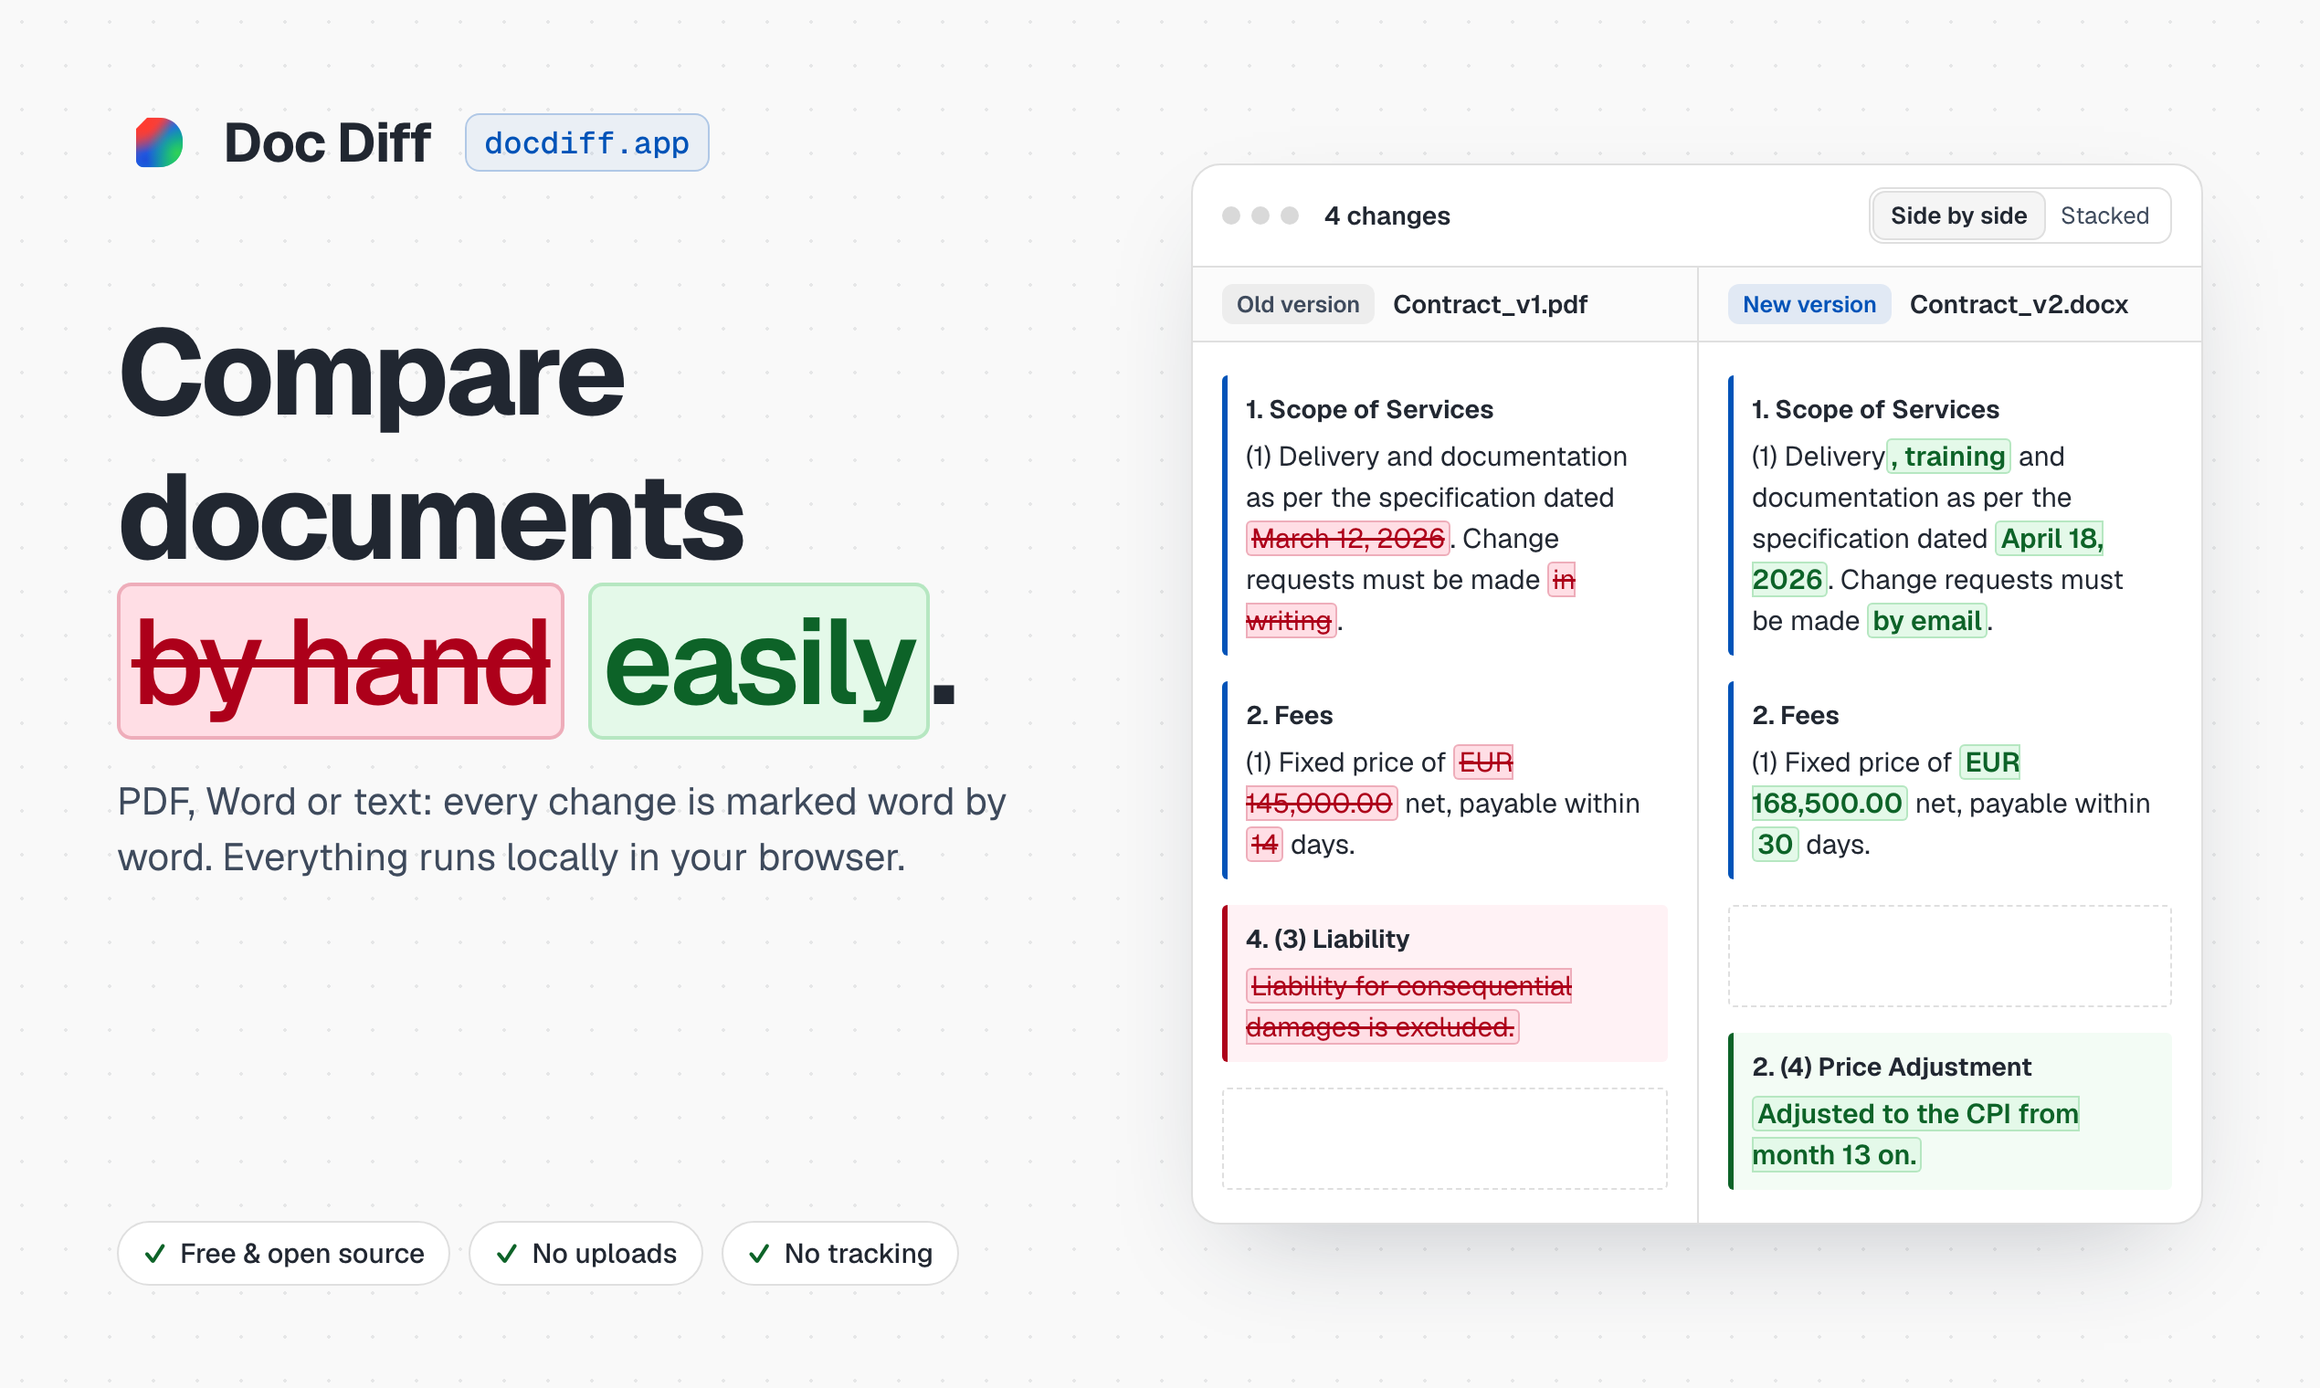
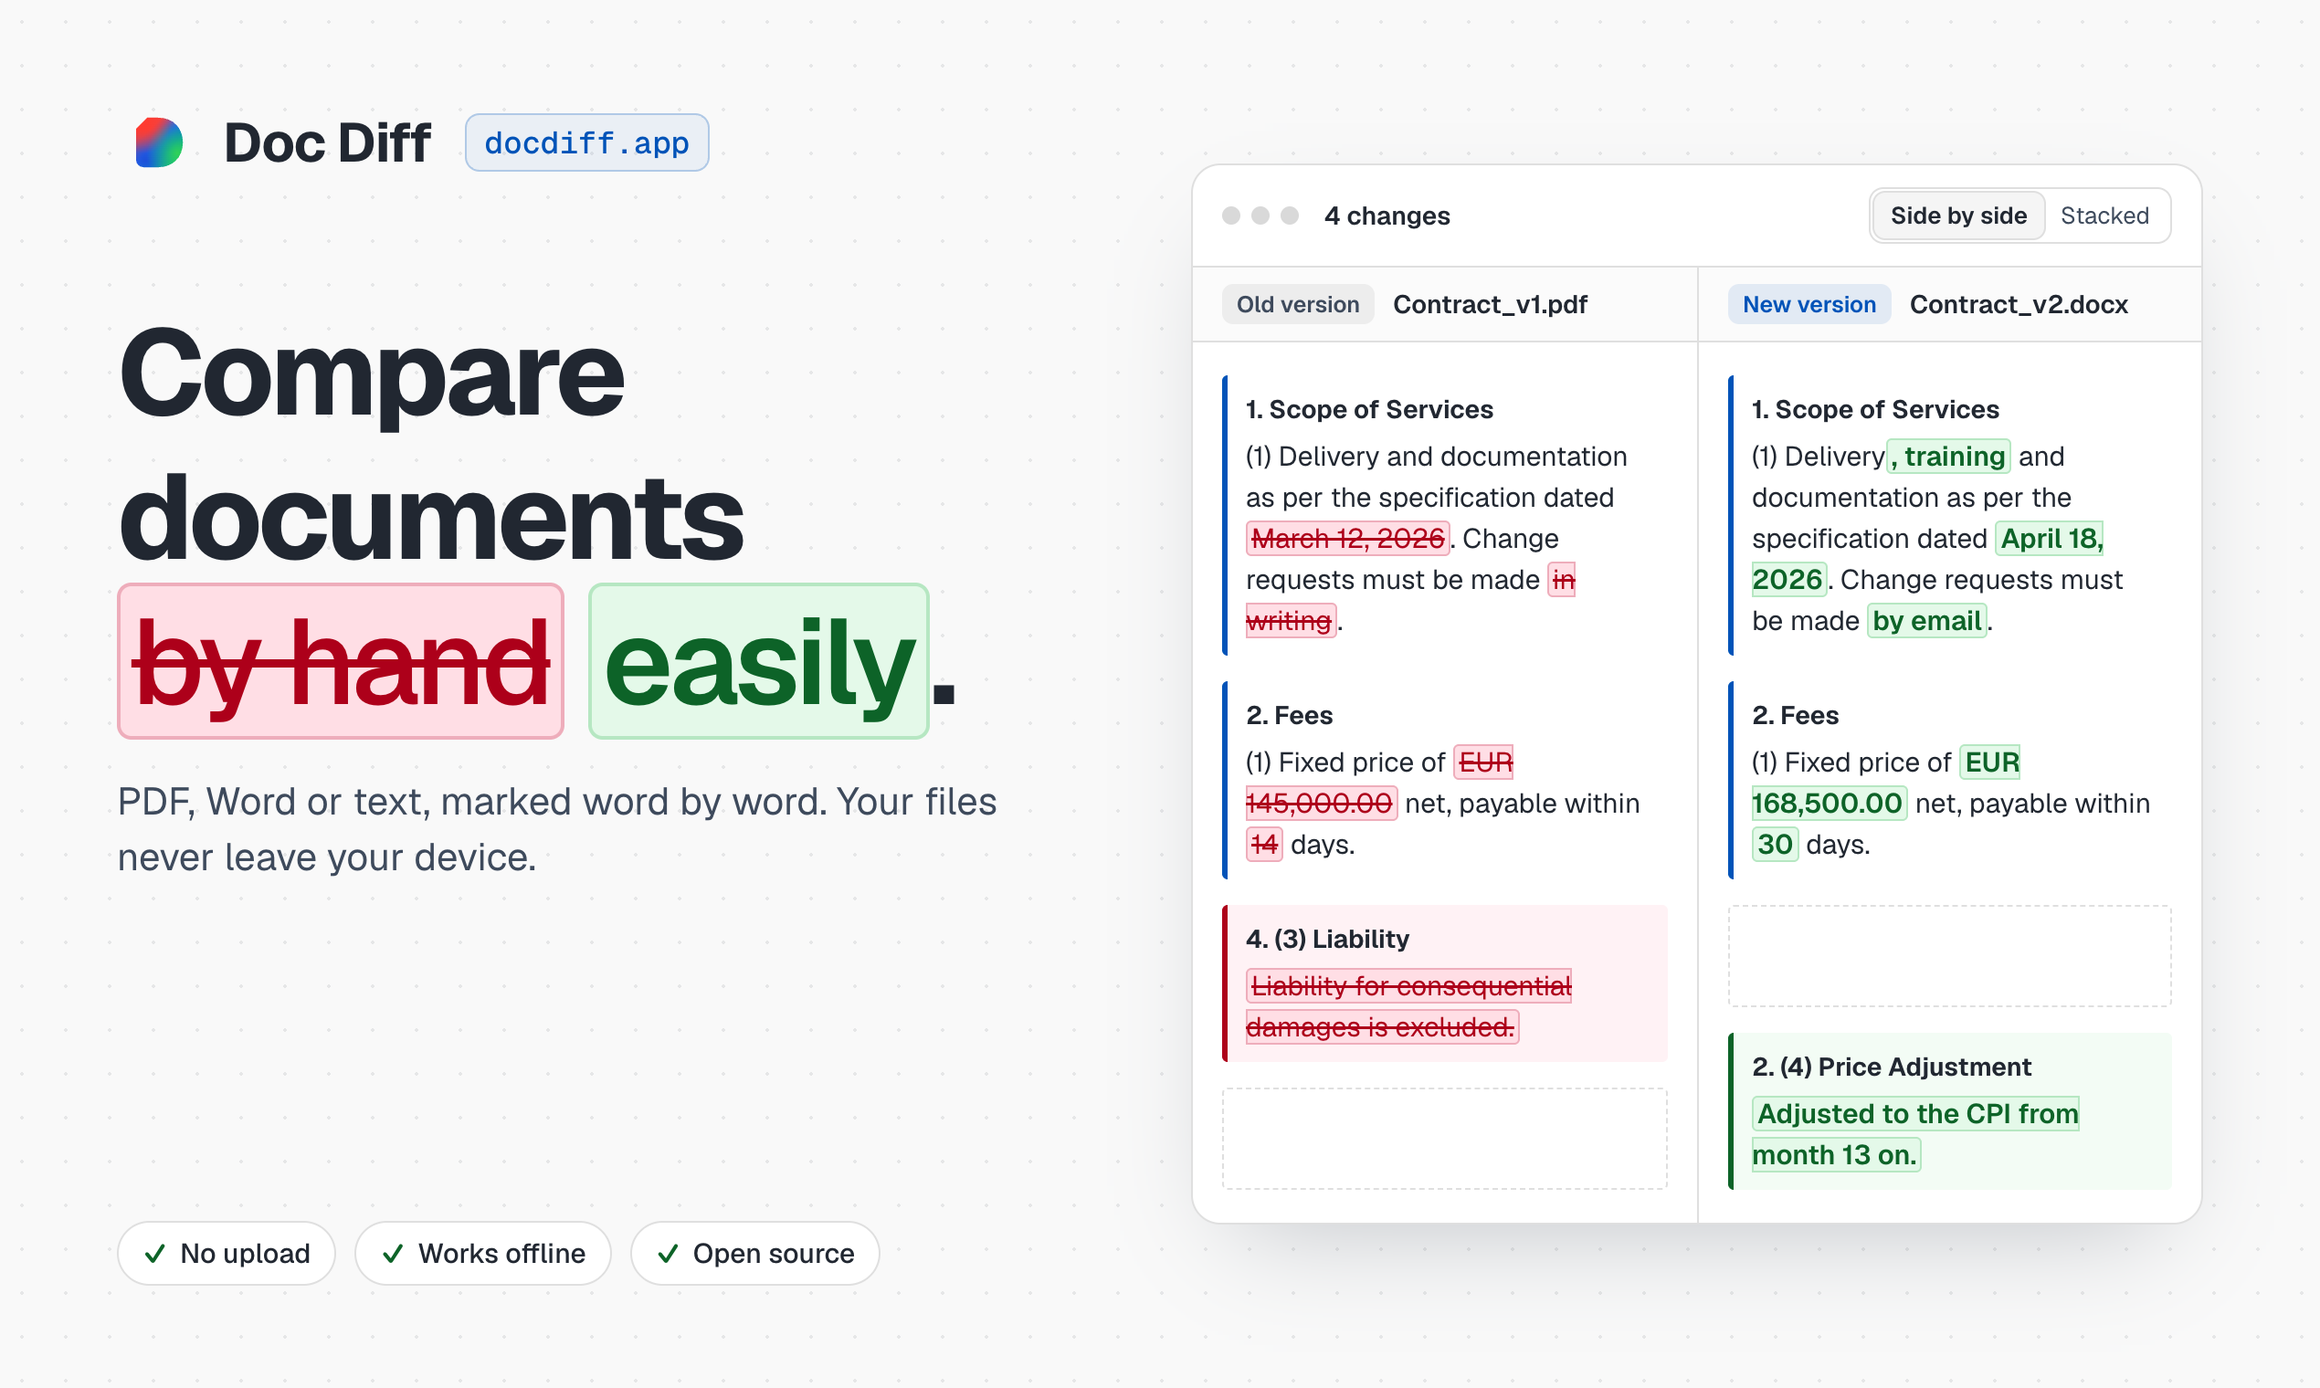
Put local-only processing front and centre
- Landing page: new "Your documents stay with you" section right below
  the first screen (no upload, works offline, nothing stored, verifiable);
  the trust line now leads with "No upload · Works offline".
- SEO: meta title and description say "locally, without uploading" and
  "works offline"; the JSON-LD featureList includes the four privacy points.
- Link preview images and the launch cover: "Your files never leave your
  device", chips "No upload · Works offline · Open source".
- README: a short privacy block near the top, linking to the full section.

Changed region(s): [[0.0622, 0.5566, 0.4354, 0.6493], [0.0622, 0.8967, 0.4043, 0.9276], [0.3421, 0.6184, 0.3732, 0.6493]]

diff --git a/src/js/01-i18n.js b/src/js/01-i18n.js
@@ -343,7 +343,7 @@ const I18N = {
     loadSample: 'Beispiel ansehen',
     heroTitle: 'Dokumente <del class="hero-del" aria-hidden="true" data-word="mühsam"></del> <ins class="hero-ins">einfach</ins> vergleichen.',
     heroSub: 'Jede Änderung Wort für Wort markiert. Ihre Dateien verlassen nie Ihr Gerät.',
-    trustLine: 'Kostenlos und Open Source (MIT) · Keine Werbung, kein Tracking, keine Cookies',
+    trustLine: 'Kein Upload · Auch offline nutzbar · Kostenlos und Open Source (MIT) · Kein Tracking',
     slotLeftTitle: 'Alte Fassung',
     slotRightTitle: 'Neue Fassung',
     slotHint: 'PDF, Word (.docx) oder Text',
@@ -359,6 +359,16 @@ const I18N = {
     how2Text: 'Entferntes ist rot durchgestrichen, Neues grün markiert. Jede Änderung können Sie annehmen oder ablehnen.',
     how3Title: 'Ergebnis sichern, wenn Sie es brauchen',
     how3Text: 'Als saubere Endfassung (Word im Originalformat oder PDF) oder als Vergleich mit Änderungsverfolgung.',
+    localTitle: 'Ihre Dokumente bleiben bei Ihnen',
+    localIntro: 'Online-Vergleichsdienste laden Ihre Dateien auf ihre Server. Doc Diff nicht: Gelesen und verglichen wird nur in Ihrem Browser. Ihre Dokumente erreichen keinen Server, weder unseren noch den eines Dritten. Das macht es geeignet für vertrauliche Verträge und erleichtert den Datenschutz (DSGVO).',
+    local1Title: 'Kein Upload',
+    local1Text: 'Ihr Browser sperrt jede Netzwerkverbindung aus der Seite heraus (Content-Security-Policy). Die Dateien liegen nur im Arbeitsspeicher dieses Tabs.',
+    local2Title: 'Funktioniert offline',
+    local2Text: 'Die ganze App ist eine einzige HTML-Datei. Herunterladen, Internet trennen, weiterarbeiten.',
+    local3Title: 'Nichts gespeichert, nichts geteilt',
+    local3Text: 'Kein Konto, keine Cookies, kein Tracking, kein Speicher im Browser. Schließen Sie den Tab, ist alles weg.',
+    local4Title: 'Selbst nachprüfbar',
+    local4Text: 'Der Quellcode ist offen (MIT). Im Reiter „Netzwerk“ der Entwicklerwerkzeuge sehen Sie: Beim Vergleichen geht keine Anfrage hinaus.',
     scopeTitle: 'Was es kann – und was nicht',
     scopeCanTitle: 'Kann',
     scopeCan1: 'PDFs mit Textebene, Word-Dateien (.docx) und reinen Text vergleichen – auch gemischt, etwa PDF mit Word',
@@ -392,9 +402,9 @@ const I18N = {
     faqWordA: `
               <p>Ja. Der Export „Word mit Änderungsverfolgung“ erzeugt eine .docx-Datei, in der jeder noch offene Unterschied als nachverfolgte Änderung steht. In Word oder LibreOffice können Sie die Änderungen einzeln annehmen oder ablehnen. Ist die neue Fassung eine Word-Datei, behält der Export deren Formatierung: Formatvorlagen, Nummerierung, Tabellen und Bilder bleiben erhalten. Aus PDF oder Text wird ein neu gesetztes Word-Dokument. Die Endfassung ohne Markierungen gibt es ebenso als Word-Datei.</p>
             `,
-    metaTitle: 'Doc Diff – PDF- und Word-Dokumente vergleichen, ohne Upload',
+    metaTitle: 'Doc Diff – PDF und Word vergleichen, lokal und ohne Upload',
     otherPageHint: 'Diese Seite gibt es auch auf Deutsch →',
-    metaDescription: 'Zwei Fassungen eines Vertrags oder Dokuments vergleichen: PDF, Word oder Text, Wort für Wort markiert. Kostenlos, Open Source, ohne Upload.',
+    metaDescription: 'Zwei Vertragsfassungen vergleichen, Wort für Wort markiert: PDF, Word oder Text. Läuft lokal im Browser, ohne Upload, auch offline. Kostenlos, Open Source.',
     ogImageAlt: 'Doc Diff: Zwei Vertragsfassungen nebeneinander, entfernter Text rot durchgestrichen, neuer Text grün markiert.',
     footerSource: 'Quellcode auf GitHub',
     githubMenu: 'Quellcode auf GitHub',
@@ -741,7 +751,7 @@ const I18N = {
     loadSample: 'View example',
     heroTitle: 'Compare documents <del class="hero-del" aria-hidden="true" data-word="by hand"></del> <ins class="hero-ins">easily</ins>.',
     heroSub: 'Every change marked word by word. Your files never leave your device.',
-    trustLine: 'Free and open source (MIT) · No ads, no tracking, no cookies',
+    trustLine: 'No upload · Works offline · Free and open source (MIT) · No tracking',
     slotLeftTitle: 'Old version',
     slotRightTitle: 'New version',
     slotHint: 'PDF, Word (.docx) or text',
@@ -757,6 +767,16 @@ const I18N = {
     how2Text: 'Removed text is struck through in red, added text is marked green. You can accept or reject each change.',
     how3Title: 'Save the result if you need it',
     how3Text: 'As a clean final version (Word in the original format, or PDF) or as a comparison with tracked changes.',
+    localTitle: 'Your documents stay with you',
+    localIntro: 'Online comparison services upload your files to their servers. Doc Diff doesn’t: everything is read and compared in your browser. Your documents reach no server, neither ours nor anyone else’s. That makes it suitable for confidential contracts and keeps data protection (GDPR) simple.',
+    local1Title: 'No upload',
+    local1Text: 'Your browser blocks every network connection from the page (Content Security Policy). The files only live in the memory of this tab.',
+    local2Title: 'Works offline',
+    local2Text: 'The whole app is a single HTML file. Download it, disconnect, keep working.',
+    local3Title: 'Nothing stored, nothing shared',
+    local3Text: 'No account, no cookies, no tracking, no browser storage. Close the tab and everything is gone.',
+    local4Title: 'Check it yourself',
+    local4Text: 'The source code is open (MIT). The Network tab of your browser’s developer tools shows no request while you compare.',
     scopeTitle: 'What it can do – and what it can’t',
     scopeCanTitle: 'Can',
     scopeCan1: 'Compare PDFs with a text layer, Word files (.docx) and plain text – also mixed, e.g. a PDF against a Word file',
@@ -790,9 +810,9 @@ const I18N = {
     faqWordA: `
               <p>Yes. The “Word with tracked changes” export creates a .docx file in which every difference that is still open is a tracked change. In Word or LibreOffice you can accept or reject each change. When the new version is a Word file, the export keeps its formatting: styles, numbering, tables and images stay as they were. From a PDF or text, a newly typeset Word document is created. The final version without marks is available as a Word file, too.</p>
             `,
-    metaTitle: 'Doc Diff – Compare PDF and Word documents without uploading',
+    metaTitle: 'Doc Diff – Compare PDF and Word files locally, without uploading',
     otherPageHint: 'This page is also available in English →',
-    metaDescription: 'Compare two versions of a contract or document: PDF, Word or text, marked word by word. Free, open source, runs in your browser without uploads.',
+    metaDescription: 'Compare two versions of a contract, marked word by word: PDF, Word or text. Runs locally in your browser, no upload, works offline. Free and open source.',
     ogImageAlt: 'Doc Diff: two versions of a contract side by side, removed text struck through in red, added text marked green.',
     footerSource: 'Source code on GitHub',
     githubMenu: 'Source code on GitHub',

diff --git a/src/template.html b/src/template.html
@@ -381,6 +381,17 @@ __APP_CSS__
         <button type="button" class="landing-more" id="landing-more" aria-label="Mehr erfahren" data-i18n-label="landingMore"><svg class="icon" viewBox="0 0 24 24" aria-hidden="true"><path d="m6 9 6 6 6-6"/></svg></button>
         </div>
 
+        <section class="landing-section" id="landing-local" aria-labelledby="local-title">
+          <h2 id="local-title" data-i18n="localTitle">Ihre Dokumente bleiben bei Ihnen</h2>
+          <p class="local-intro" data-i18n="localIntro"></p>
+          <div class="local-grid">
+            <div class="local-card"><svg class="icon" viewBox="0 0 24 24" aria-hidden="true"><path d="M12 22s8-4 8-10V5l-8-3-8 3v7c0 6 8 10 8 10z"/></svg><h3 data-i18n="local1Title"></h3><p data-i18n="local1Text"></p></div>
+            <div class="local-card"><svg class="icon" viewBox="0 0 24 24" aria-hidden="true"><path d="M12 20h.01"/><path d="M8.5 16.43a5 5 0 0 1 7 0"/><path d="M2 8.82a15 15 0 0 1 4.17-2.65"/><path d="M10.66 5c4.01-.36 8.14.9 11.34 3.76"/><path d="M16.85 11.25a10 10 0 0 1 2.22 1.68"/><path d="M5 13a10 10 0 0 1 5.24-2.76"/><path d="m2 2 20 20"/></svg><h3 data-i18n="local2Title"></h3><p data-i18n="local2Text"></p></div>
+            <div class="local-card"><svg class="icon" viewBox="0 0 24 24" aria-hidden="true"><rect x="4" y="11" width="16" height="10" rx="2"/><path d="M8 11V7a4 4 0 0 1 8 0v4"/></svg><h3 data-i18n="local3Title"></h3><p data-i18n="local3Text"></p></div>
+            <div class="local-card"><svg class="icon" viewBox="0 0 24 24" aria-hidden="true"><polyline points="16 18 22 12 16 6"/><polyline points="8 6 2 12 8 18"/></svg><h3 data-i18n="local4Title"></h3><p data-i18n="local4Text"></p></div>
+          </div>
+        </section>
+
         <section class="landing-section" id="landing-scope" aria-labelledby="scope-title">
           <h2 id="scope-title" data-i18n="scopeTitle">Was es kann – und was nicht</h2>
           <div class="scope-grid">

diff --git a/src/styles.css b/src/styles.css
@@ -1207,6 +1207,42 @@ body.is-dragging-file .drop-slot-btn {
   font-size: var(--text-ui-sm);
   font-weight: 700;
 }
+.local-intro {
+  max-width: 46em;
+  margin-top: 10px;
+  font-size: var(--text-doc-lg);
+  line-height: 1.55;
+  color: hsl(var(--muted-foreground));
+}
+.local-grid {
+  display: grid;
+  grid-template-columns: 1fr 1fr;
+  gap: 16px;
+  margin-top: 18px;
+}
+.local-card {
+  padding: 18px 20px;
+  border-radius: var(--radius-lg);
+  background: hsl(var(--card));
+  box-shadow: inset 0 0 0 1px var(--kante-200);
+}
+.local-card .icon {
+  width: 20px;
+  height: 20px;
+  color: hsl(var(--success-ink));
+}
+.local-card h3 {
+  margin-top: 10px;
+  font-size: var(--text-title);
+  font-weight: 600;
+  color: hsl(var(--foreground));
+}
+.local-card p {
+  margin-top: 6px;
+  font-size: var(--text-doc-lg);
+  line-height: 1.5;
+  color: hsl(var(--muted-foreground));
+}
 .scope-grid {
   display: grid;
   grid-template-columns: 1fr 1fr;
@@ -3410,6 +3446,7 @@ body.list-open .toast-region {
     padding-top: 24px;
   }
   .how-steps,
+  .local-grid,
   .scope-grid {
     grid-template-columns: 1fr;
     gap: 14px;

diff --git a/docs/og-image.html b/docs/og-image.html
@@ -99,8 +99,8 @@
         </g>
       </svg><b>Doc Diff</b><span class="url">docdiff.app</span></div>
     <h1>Dokumente<br><del>mühsam</del> <ins>einfach</ins><br>vergleichen.</h1>
-    <p class="sub">PDF, Word oder Text: Jede Änderung wird Wort für Wort markiert. Alles läuft lokal im Browser.</p>
-    <div class="chips"><span>Kostenlos &amp; Open Source</span><span>Keine Uploads</span><span>Kein Tracking</span></div>
+    <p class="sub">PDF, Word oder Text, Wort für Wort markiert. Ihre Dateien verlassen nie Ihr Gerät.</p>
+    <div class="chips"><span>Kein Upload</span><span>Funktioniert offline</span><span>Open Source</span></div>
   </div>
   <div class="win">
     <div class="bar">

diff --git a/docs/og-image-en.html b/docs/og-image-en.html
@@ -100,8 +100,8 @@
         </g>
       </svg><b>Doc Diff</b><span class="url">docdiff.app</span></div>
     <h1>Compare<br>documents<br><del>by hand</del> <ins>easily</ins>.</h1>
-    <p class="sub">PDF, Word or text: every change is marked word by word. Everything runs locally in your browser.</p>
-    <div class="chips"><span>Free &amp; open source</span><span>No uploads</span><span>No tracking</span></div>
+    <p class="sub">PDF, Word or text, marked word by word. Your files never leave your device.</p>
+    <div class="chips"><span>No upload</span><span>Works offline</span><span>Open source</span></div>
   </div>
   <div class="win">
     <div class="bar">

diff --git a/docs/launch/0-cover.html b/docs/launch/0-cover.html
@@ -94,8 +94,8 @@
         </g>
       </svg><b>Doc Diff</b><span class="url">docdiff.app</span></div>
     <h1>Compare<br>documents<br><del>by hand</del> <ins>easily</ins>.</h1>
-    <p class="sub">PDF, Word or text: every change is marked word by word. Everything runs locally in your browser.</p>
-    <div class="chips"><span>Free &amp; open source</span><span>No uploads</span><span>No tracking</span></div>
+    <p class="sub">PDF, Word or text, marked word by word. Your files never leave your device.</p>
+    <div class="chips"><span>No upload</span><span>Works offline</span><span>Open source</span></div>
   </div>
   <div class="win">
     <div class="bar">

diff --git a/scripts/build.py b/scripts/build.py
@@ -153,7 +153,7 @@ def json_ld(template: str, lang: str, strings: dict, version: str) -> str:
     page = PAGES[lang]
     license_url = REPO_URL + "/blob/main/LICENSE"
     author = {"@type": "Person", "name": "Tobias Schnorpfeil", "url": "https://github.com/tschnorpfeil"}
-    features = re.findall(r'data-i18n="(scopeCan\d+)"', template)
+    features = re.findall(r'data-i18n="(local\dTitle|scopeCan\d+)"', template)
     faq_keys = re.findall(r'<summary data-i18n="(faq\w+)Q"', template)
     app = {
         "@type": "WebApplication",

diff --git a/README.md b/README.md
@@ -27,6 +27,15 @@
   </picture>
 </p>
 
+## Your documents stay on your device
+
+- **No upload.** Files are read and compared inside the browser tab. The page's Content Security Policy (`connect-src 'none'`) makes the browser block every network connection from the page.
+- **Works offline.** The whole app is one HTML file. Download it, disconnect, keep working.
+- **Nothing stored, nothing shared.** No account, no cookies, no tracking, no browser storage. Close the tab and everything is gone.
+- **Verifiable.** The code is open (MIT), and the browser's Network tab shows no request while you compare.
+
+This makes it suitable for confidential contracts and documents with personal data (GDPR): the documents reach no server, neither ours nor anyone else's. Details and limits are under [Privacy](#privacy).
+
 ## What it is
 
 Doc Diff is a small tool for one job: you have an old and a new version of a document, typically a contract or a tender, and you want to know exactly what changed. It is free, has no accounts, no ads and no tracking, and the whole app is a single HTML file you can also run offline.
